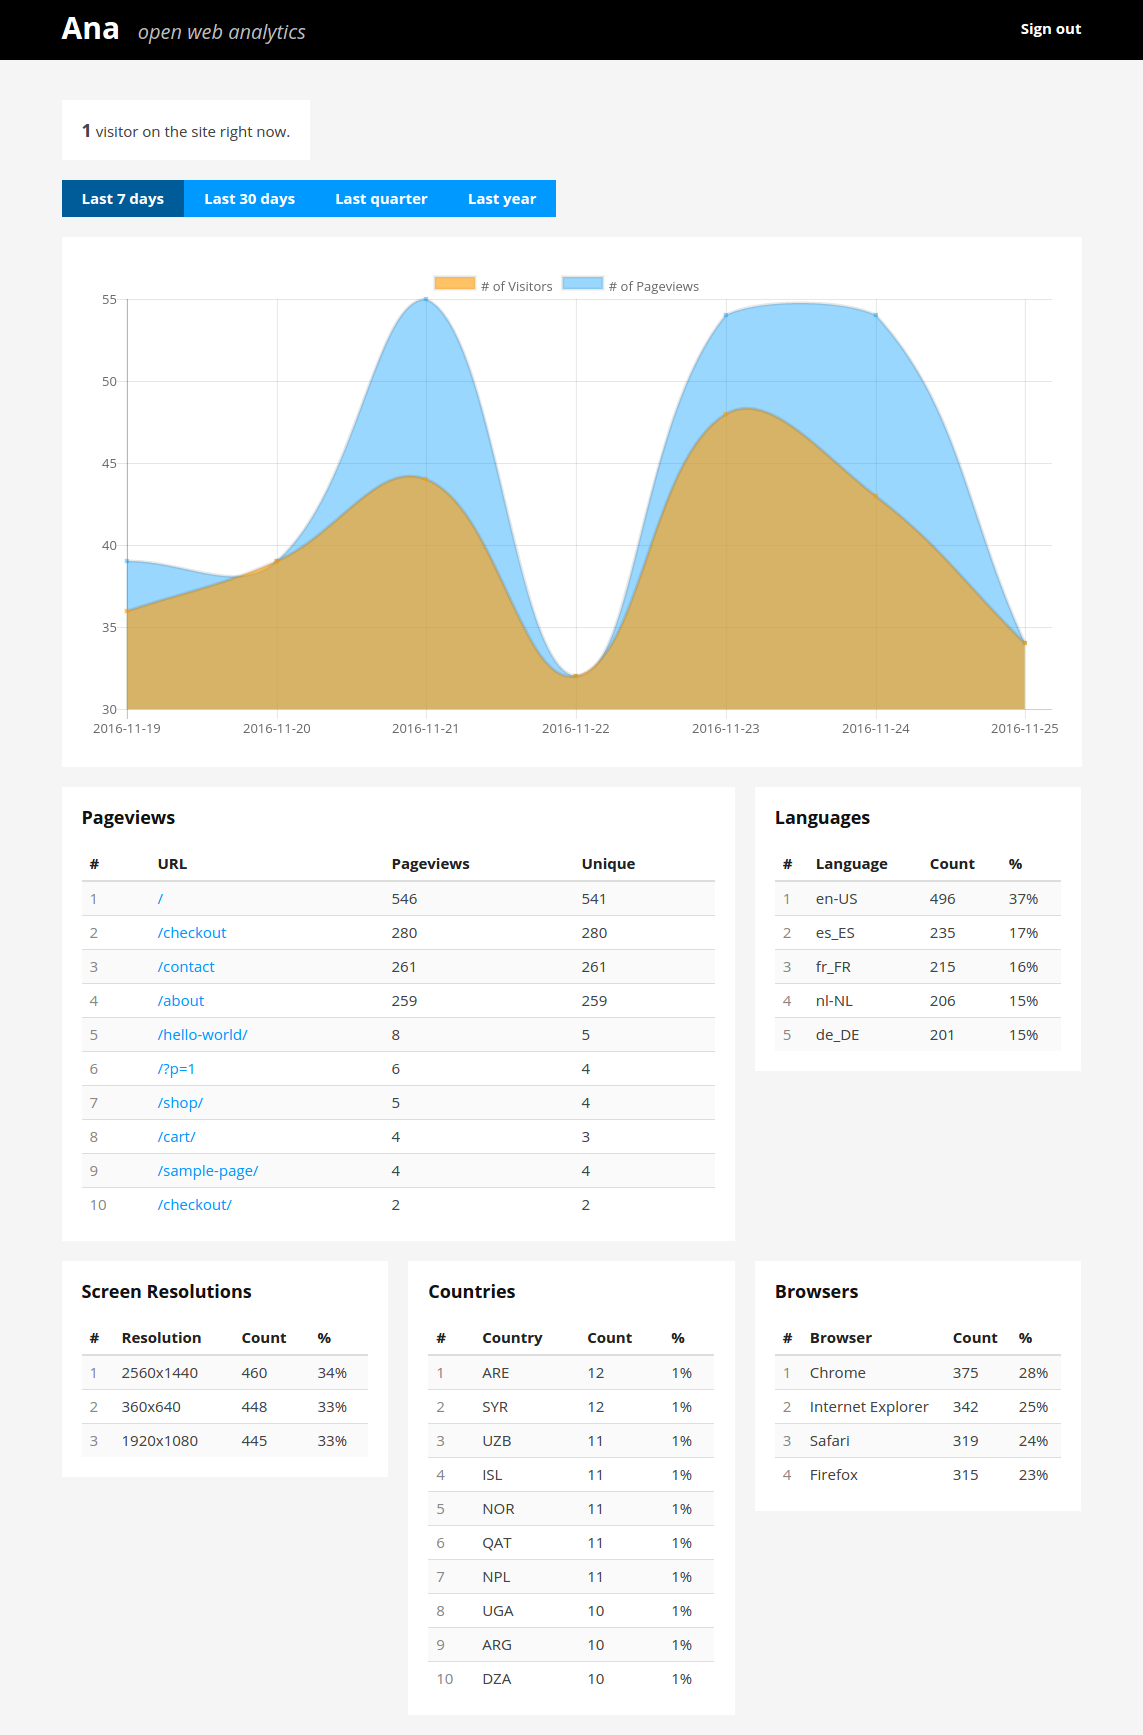
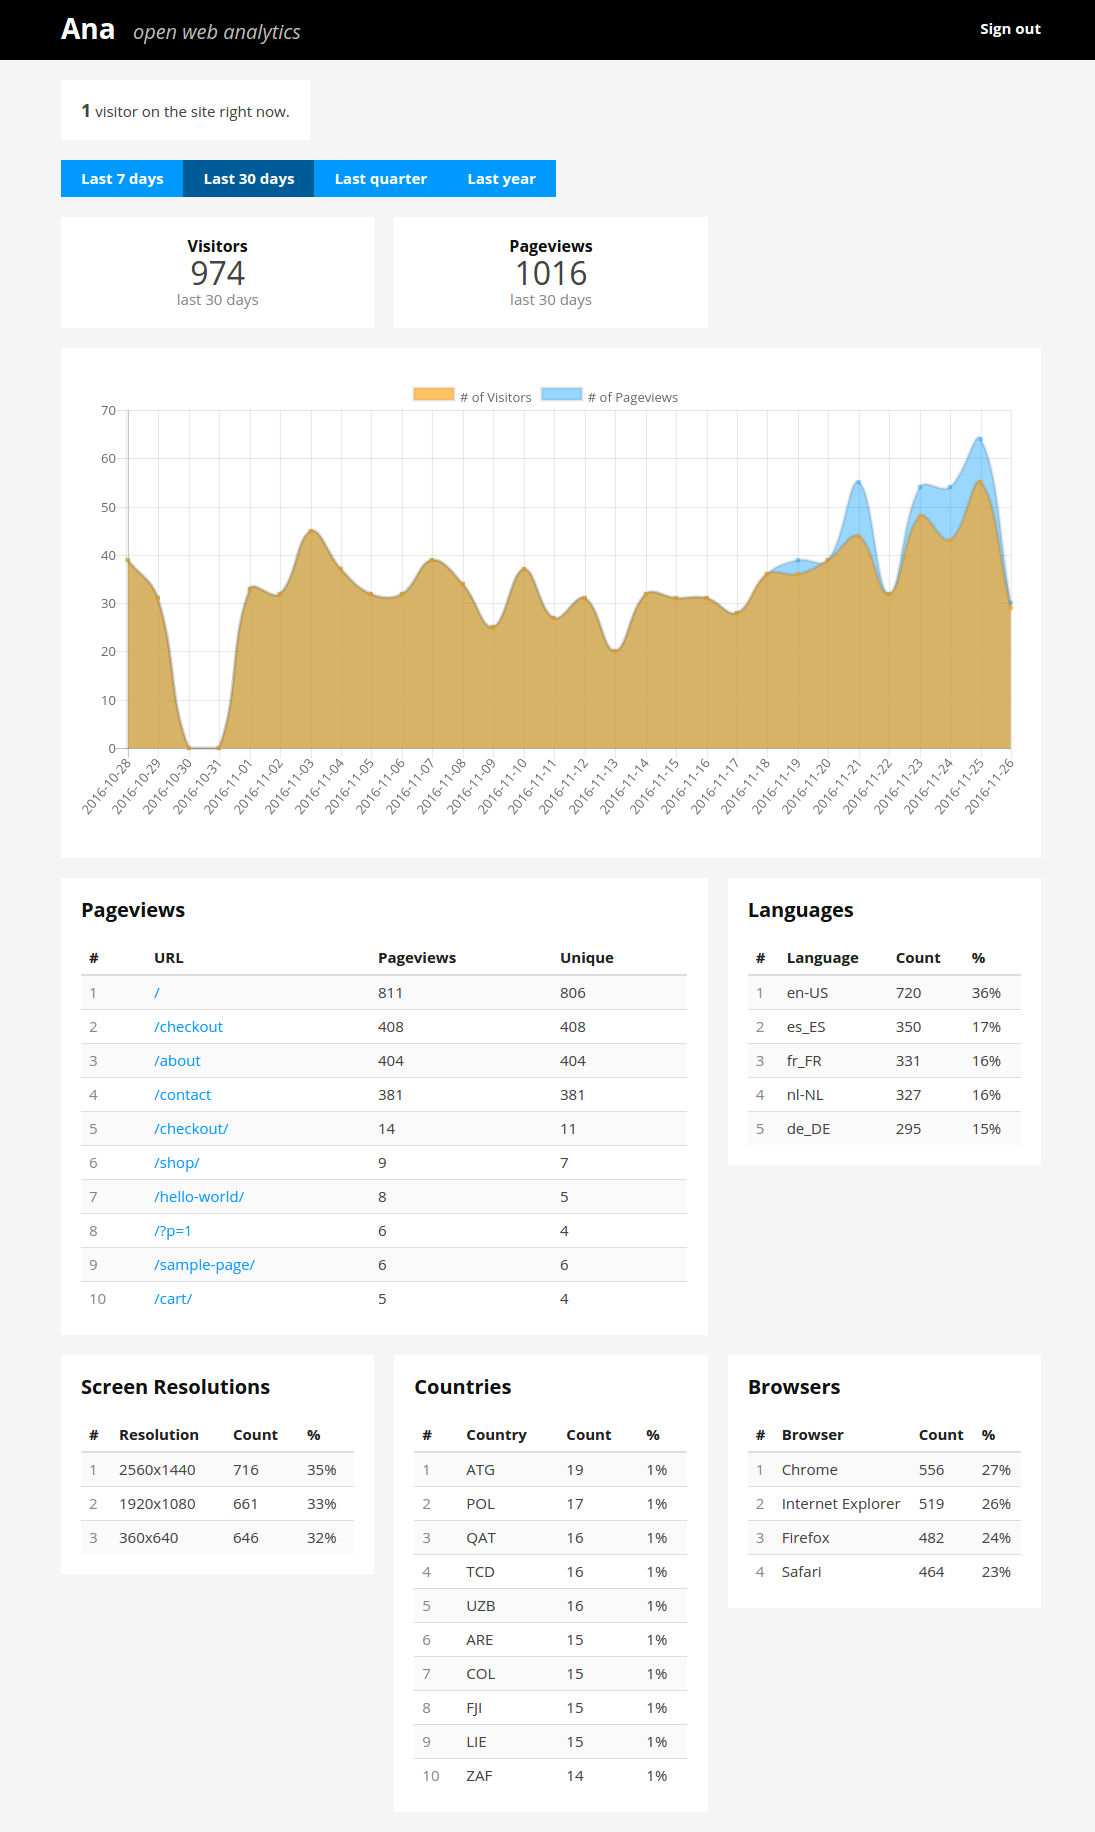
add widget component for totals per period

diff --git a/assets/js/components/CountWidget.js b/assets/js/components/CountWidget.js
@@ -1,0 +1,46 @@
+'use strict';
+
+import { h, render, Component } from 'preact';
+
+class CountWidget extends Component {
+  constructor(props) {
+    super(props)
+
+    this.state = {
+      count: 0
+    }
+
+    this.fetchData = this.fetchData.bind(this);
+    this.fetchData(props.period);
+  }
+
+  componentWillReceiveProps(newProps) {
+    if(this.props.period != newProps.period) {
+      this.fetchData(newProps.period)
+    }
+  }
+
+  fetchData(period) {
+    return fetch('/api/' + this.props.endpoint + '/count?period=' + period, {
+      credentials: 'include'
+    }).then((r) => {
+        if( r.ok ) { return r.json(); }
+        throw new Error();
+     }).then((data) => {
+        this.setState({ count: data })
+    });
+  }
+
+  render() {
+    return (
+
+      <div class="block center-text">
+        <h4 class="no-margin">{this.props.title}</h4>
+        <div class="big">{this.state.count}</div>
+        <div class="muted">last {this.props.period} days</div>
+      </div>
+    )
+  }
+}
+
+export default CountWidget

diff --git a/assets/js/pages/dashboard.js b/assets/js/pages/dashboard.js
@@ -7,6 +7,7 @@ import Graph from '../components/Graph.js';
 import DatePicker from '../components/DatePicker.js';
 import Table from '../components/Table.js';
 import HeaderBar from '../components/HeaderBar.js';
+import CountWidget from '../components/CountWidget.js';
 
 class Dashboard extends Component {
   constructor(props) {
@@ -25,6 +26,14 @@ class Dashboard extends Component {
         <Realtime />
         <div class="clear">
           <DatePicker period={this.state.period} onChoose={(p) => { this.setState({ period: p })}} />
+        </div>
+        <div class="row">
+          <div class="col-2">
+            <CountWidget title="Visitors" endpoint="visits" period={this.state.period} />
+          </div>
+          <div class="col-2">
+            <CountWidget title="Pageviews" endpoint="pageviews" period={this.state.period} />
+          </div>
         </div>
         <Graph period={this.state.period} />
         <div class="row">

diff --git a/assets/sass/styles.scss b/assets/sass/styles.scss
@@ -15,7 +15,7 @@ body {
   background: #f5f5f5;
 }
 
-h1, h2, h3 {
+h1, h2, h3, h4, h5 {
   color: #111;
   margin: 0;
 
@@ -83,4 +83,21 @@ a {
 .count {
   font-weight: bold;
   font-size: 120%;
+}
+
+
+h1 {
+  font-size: 28px;
+}
+
+h2 {
+  font-size: 24px;
+}
+
+h3{
+  font-size: 20px;
+}
+
+h4 {
+  font-size: 16px;
 }

diff --git a/assets/js/components/Realtime.js b/assets/js/components/Realtime.js
@@ -12,7 +12,7 @@ class Realtime extends Component {
     }
     this.fetchData = this.fetchData.bind(this);
     this.fetchData();
-    window.setInterval(this.fetchData, 6000);
+    window.setInterval(this.fetchData, 15000);
   }
 
   fetchData() {

diff --git a/assets/sass/_util.scss b/assets/sass/_util.scss
@@ -26,10 +26,22 @@
   margin-bottom: 40px;
 }
 
+.no-margin {
+  margin: 0 !important;
+}
+
 .clear {
   clear: both;
 }
 
+.big {
+  font-size: 32px;
+}
+
 .muted {
   color: #888;
+}
+
+.center-text {
+  text-align: center;
 }

diff --git a/api/visits.go b/api/visits.go
@@ -5,7 +5,6 @@ import (
   "github.com/dannyvankooten/ana/models"
   "github.com/dannyvankooten/ana/core"
   "encoding/json"
-  "strconv"
 )
 
 // URL: /api/visits
@@ -26,11 +25,7 @@ var GetVisitsHandler = http.HandlerFunc(func(w http.ResponseWriter, r *http.Requ
   checkError(err)
   defer stmt.Close()
 
-  limit, _ := strconv.Atoi(r.URL.Query().Get("limit"))
-  if limit == 0 {
-    limit = 10
-  }
-
+  limit := getRequestedLimit(r)
   rows, err := stmt.Query(&limit)
   checkError(err)
 
@@ -50,11 +45,25 @@ var GetVisitsHandler = http.HandlerFunc(func(w http.ResponseWriter, r *http.Requ
   json.NewEncoder(w).Encode(results)
 })
 
-// URL: /api/visits/count/realtime
-var GetVisitsRealtimeCount = http.HandlerFunc(func(w http.ResponseWriter, r *http.Request) {
-  row := core.DB.QueryRow(`SELECT COUNT(DISTINCT(ip_address)) FROM visits WHERE timestamp >= DATE_SUB(CURRENT_TIMESTAMP, INTERVAL 3 HOUR_MINUTE) AND timestamp <= CURRENT_TIMESTAMP`)
+// URL: /api/visits/count
+var GetVisitsCountHandler = http.HandlerFunc(func(w http.ResponseWriter, r *http.Request) {
+  period := getRequestedPeriod(r)
+  stmt, err := core.DB.Prepare(`SELECT COUNT(DISTINCT(ip_address)) FROM visits WHERE timestamp >= DATE_SUB(CURRENT_TIMESTAMP, INTERVAL ? day) AND timestamp <= CURRENT_TIMESTAMP`)
+
+  checkError(err)
+  defer stmt.Close()
+
   var result int
-  row.Scan(&result)
+  stmt.QueryRow(period).Scan(&result)
+
+  w.Header().Set("Content-Type", "application/json")
+  json.NewEncoder(w).Encode(result)
+})
+
+// URL: /api/visits/count/realtime
+var GetVisitsRealtimeCountHandler = http.HandlerFunc(func(w http.ResponseWriter, r *http.Request) {
+  var result int
+  core.DB.QueryRow(`SELECT COUNT(DISTINCT(ip_address)) FROM visits WHERE timestamp >= DATE_SUB(CURRENT_TIMESTAMP, INTERVAL 3 HOUR_MINUTE) AND timestamp <= CURRENT_TIMESTAMP`).Scan(&result)
 
   w.Header().Set("Content-Type", "application/json")
   json.NewEncoder(w).Encode(result)
@@ -70,11 +79,7 @@ var GetVisitsDayCountHandler = http.HandlerFunc(func(w http.ResponseWriter, r *h
   checkError(err)
   defer stmt.Close()
 
-  period, err := strconv.Atoi(r.URL.Query().Get("period"))
-  if err != nil || period == 0 {
-    period = 1
-  }
-
+  period := getRequestedPeriod(r)
   rows, err := stmt.Query(period)
   checkError(err)
 
@@ -88,9 +93,6 @@ var GetVisitsDayCountHandler = http.HandlerFunc(func(w http.ResponseWriter, r *h
   }
 
   results = fillDatapoints(period, results)
-
-  err = rows.Err();
-  checkError(err)
 
   w.Header().Set("Content-Type", "application/json")
   json.NewEncoder(w).Encode(results)

diff --git a/ana.go b/ana.go
@@ -13,7 +13,7 @@ import (
 
 func main() {
 
-  // test .env file
+  // load .env file
   err := godotenv.Load()
   if err != nil {
     log.Fatal("Error loading .env file")
@@ -28,9 +28,11 @@ func main() {
   r.HandleFunc("/collect", api.CollectHandler).Methods("GET")
   r.Handle("/api/session", api.Login).Methods("POST")
   r.Handle("/api/session", api.Logout).Methods("DELETE")
+  r.Handle("/api/visits/count", api.Authorize(api.GetVisitsCountHandler)).Methods("GET")
   r.Handle("/api/visits/count/day", api.Authorize(api.GetVisitsDayCountHandler)).Methods("GET")
-  r.Handle("/api/visits/count/realtime", api.Authorize(api.GetVisitsRealtimeCount)).Methods("GET")
+  r.Handle("/api/visits/count/realtime", api.Authorize(api.GetVisitsRealtimeCountHandler)).Methods("GET")
   r.Handle("/api/visits", api.Authorize(api.GetVisitsHandler)).Methods("GET")
+  r.Handle("/api/pageviews/count", api.Authorize(api.GetPageviewsCountHandler)).Methods("GET")
   r.Handle("/api/pageviews/count/day", api.Authorize(api.GetPageviewsDayCountHandler)).Methods("GET")
   r.Handle("/api/pageviews", api.Authorize(api.GetPageviewsHandler)).Methods("GET")
   r.Handle("/api/languages", api.Authorize(api.GetLanguagesHandler)).Methods("GET")

diff --git a/api/pageviews.go b/api/pageviews.go
@@ -43,6 +43,21 @@ var GetPageviewsHandler = http.HandlerFunc(func(w http.ResponseWriter, r *http.R
 })
 
 
+// URL: /api/pageviews/count
+var GetPageviewsCountHandler = http.HandlerFunc(func(w http.ResponseWriter, r *http.Request) {
+  period := getRequestedPeriod(r)
+  stmt, err := core.DB.Prepare(`SELECT COUNT(*) FROM visits WHERE timestamp >= DATE_SUB(CURRENT_TIMESTAMP, INTERVAL ? day) AND timestamp <= CURRENT_TIMESTAMP`)
+
+  checkError(err)
+  defer stmt.Close()
+
+  var result int
+  stmt.QueryRow(period).Scan(&result)
+
+  w.Header().Set("Content-Type", "application/json")
+  json.NewEncoder(w).Encode(result)
+})
+
 // URL: /api/pageviews/count/day
 var GetPageviewsDayCountHandler = http.HandlerFunc(func(w http.ResponseWriter, r *http.Request) {
   period := getRequestedPeriod(r)

diff --git a/api/auth.go b/api/auth.go
@@ -16,7 +16,6 @@ var Login = http.HandlerFunc(func(w http.ResponseWriter, r *http.Request) {
     checkError(err)
 
     w.Header().Set("Content-Type", "application/json")
-    w.WriteHeader(http.StatusOK)
     w.Write([]byte("true"))
 })
 
@@ -29,7 +28,6 @@ var Logout = http.HandlerFunc(func(w http.ResponseWriter, r *http.Request) {
     }
 
     w.Header().Set("Content-Type", "application/json")
-    w.WriteHeader(http.StatusOK)
     w.Write([]byte("true"))
 })
 

diff --git a/api/api.go b/api/api.go
@@ -47,6 +47,15 @@ func fillDatapoints(days int, points []Datapoint) []Datapoint {
   return newPoints
 }
 
+func getRequestedLimit(r *http.Request) int {
+  limit, err := strconv.Atoi(r.URL.Query().Get("limit"))
+  if err != nil || limit == 0 {
+    limit = 10
+  }
+
+  return limit
+}
+
 func getRequestedPeriod(r *http.Request) int {
   period, err := strconv.Atoi(r.URL.Query().Get("period"))
   if err != nil || period == 0 {

diff --git a/ROADMAP.md b/ROADMAP.md
@@ -1,21 +1,21 @@
 Ana Roadmap
 ===========
 
-This is a general draft document for thoughts and todo's. This has no structure.
+This is a general draft document for thoughts and todo's, without any structure to it.
 
 ### What's cooking?
 
-- Add license file.
-- Get DB creds from env.
+- Compare period totals to previous period.
+- Allow setting custom limit in table overviews.
+- Allow sorting in table overviews.
+- Choose a OS license & settle on name.
 - JS client for consuming API endpoints.
 - Envelope API responses.
-- Error handling.
-- Handle canonical URL's.
+- Track canonical URL's.
 - Show referrals.
 - Country flags.
 - Geolocate unknown IP addresses periodically.
-- Mask last 2 bits of IP address.
-- Geo map?
+- Mask last part of IP address.
 
 ### Key metrics
 
@@ -28,8 +28,3 @@ This is a general draft document for thoughts and todo's. This has no structure.
 - Acquisition
   - Referral's
   - Search keywords
-
-### Admin themes
-
-- Pages, http://pages.revox.io/dashboard/latest/html/index.html#usa
-- Metronic, http://keenthemes.com/preview/metronic/

diff --git a/README.md b/README.md
@@ -3,7 +3,7 @@ Ana. Open Source Web Analytics.
 
 This is nowhere near being usable, let alone stable. Treat as a proof of concept.
 
-![Screenshot of the Ana dashboard](https://github.com/dannyvankooten/ana/raw/master/assets/img/screenshot.png?2)
+![Screenshot of the Ana dashboard](https://github.com/dannyvankooten/ana/raw/master/assets/img/screenshot.png?v=3)
 
 ## Usage
 
